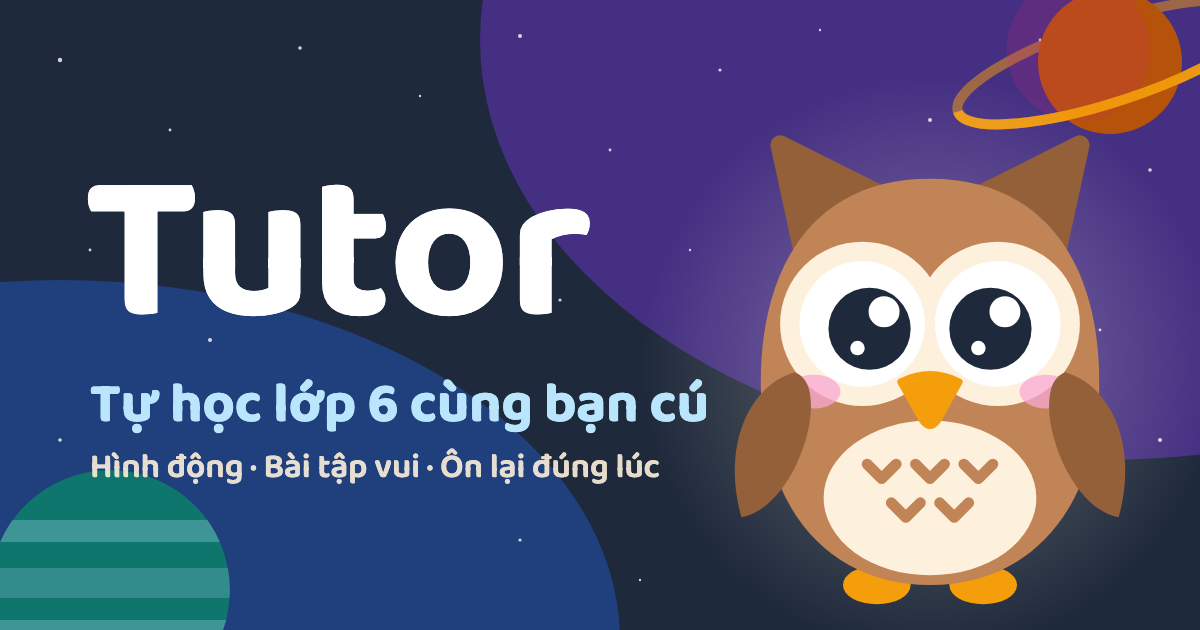
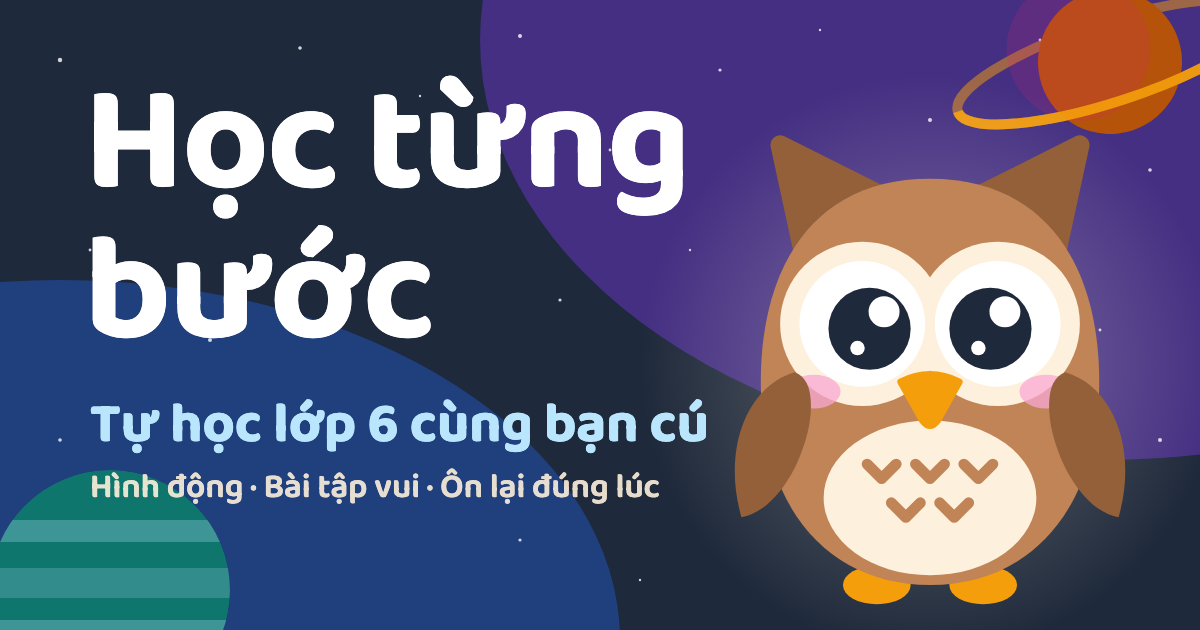
feat(brand): name the app Học từng bước on the Home Screen, tab and share card
APP_NAME and APP_SHORT_NAME in lib/brand.ts feed the manifest, the iOS
title, the title template, the Open Graph site name and the share
image, which is redrawn with the new name.

Changed region(s): [[0.0617, 0.1206, 0.5858, 0.5429], [0.0617, 0.6032, 0.5858, 0.8143]]

diff --git a/scripts/lib/brand-art.ts b/scripts/lib/brand-art.ts
@@ -1,6 +1,7 @@
 import { readFileSync } from "node:fs";
 import path from "node:path";
 import {
+  APP_NAME,
   type AppIcon,
   ICON_BACKGROUND_COLOR,
   OWL_SHARE_OF_ICON,
@@ -62,7 +63,7 @@ export function faviconSvg(owlSvg: string): string {
     FAVICON_SIZE / 2,
     FAVICON_OWL_SHARE * FAVICON_SIZE,
   );
-  return `<svg xmlns="http://www.w3.org/2000/svg" viewBox="0 0 ${FAVICON_SIZE} ${FAVICON_SIZE}"><title>Tutor</title><rect width="${FAVICON_SIZE}" height="${FAVICON_SIZE}" rx="${FAVICON_CORNER}" fill="${ICON_BACKGROUND_COLOR}"/>${owl}</svg>`;
+  return `<svg xmlns="http://www.w3.org/2000/svg" viewBox="0 0 ${FAVICON_SIZE} ${FAVICON_SIZE}"><title>${APP_NAME}</title><rect width="${FAVICON_SIZE}" height="${FAVICON_SIZE}" rx="${FAVICON_CORNER}" fill="${ICON_BACKGROUND_COLOR}"/>${owl}</svg>`;
 }
 
 // How far the owl's corner farthest from its centre sits from the icon's
@@ -146,7 +147,7 @@ export type ShareFont = { family: string; weight: number; dataUrl: string };
 
 // The share card as a page to screenshot at 1200×630: a night sky with
 // nebula glows and stars, a ringed planet and a banded moon, the owl on a
-// glow to the right, "Tutor" and the line under it to the left.
+// glow to the right, the app's name and the line under it to the left.
 export function shareImageHtml(owlSvg: string, fonts: ShareFont[]): string {
   const c = SHARE_COLORS;
   const { width, height } = SHARE_IMAGE;
@@ -187,11 +188,11 @@ ${owl}
 </svg>`;
   return `<!doctype html><html lang="vi"><head><meta charset="utf-8"><style>${faces}
 html,body{margin:0;width:${width}px;height:${height}px;overflow:hidden;background:${c.night}}
-.title{position:absolute;left:84px;top:150px;margin:0;font:700 210px/1 "Baloo 2",sans-serif;color:${c.white};letter-spacing:-2px}
-.line{position:absolute;left:90px;top:372px;margin:0;font:700 56px/1.2 "Baloo 2",sans-serif;color:${c.sky}}
-.hint{position:absolute;left:90px;top:446px;margin:0;font:600 34px/1.3 "Baloo 2",sans-serif;color:${c.cream};opacity:.9}
+.title{position:absolute;left:84px;top:70px;width:640px;margin:0;font:700 150px/1 "Baloo 2",sans-serif;color:${c.white};letter-spacing:-2px}
+.line{position:absolute;left:90px;top:392px;margin:0;font:700 56px/1.2 "Baloo 2",sans-serif;color:${c.sky}}
+.hint{position:absolute;left:90px;top:466px;margin:0;font:600 34px/1.3 "Baloo 2",sans-serif;color:${c.cream};opacity:.9}
 </style></head><body>${art}
-<h1 class="title">Tutor</h1>
+<h1 class="title">${APP_NAME}</h1>
 <p class="line">Tự học lớp 6 cùng bạn cú</p>
 <p class="hint">Hình động · Bài tập vui · Ôn lại đúng lúc</p>
 </body></html>`;

diff --git a/src/lib/brand.ts b/src/lib/brand.ts
@@ -4,7 +4,13 @@
 // one place; the family-code gate lets exactly `BRAND_PUBLIC_PATHS` through
 // without the cookie; `scripts/brand-images.ts` draws the image files.
 
-export const APP_NAME = "Tutor";
+// What the child sees: the tab, the Home Screen label, the share card.
+export const APP_NAME = "Học từng bước";
+// The label under the Home Screen icon (manifest `short_name`): the full name
+// is 13 characters and fits under an iOS icon in one line, so it is not cut.
+export const APP_SHORT_NAME = APP_NAME;
+// A page that sets its own title gets the app's name after it.
+export const TITLE_TEMPLATE = `%s | ${APP_NAME}`;
 export const APP_DESCRIPTION = "Ứng dụng tự học cho học sinh lớp 6";
 
 // Public address of the production app: the base of every absolute URL in
@@ -56,7 +62,7 @@ export const SHARE_IMAGE = {
   path: "/brand/share.png",
   width: 1200,
   height: 630,
-  alt: "Bạn cú của Tutor giữa bầu trời sao, cạnh chữ Tutor: tự học lớp 6",
+  alt: `Bạn cú giữa bầu trời sao, cạnh chữ ${APP_NAME}: tự học lớp 6`,
 } as const;
 // The image as the metadata API takes it.
 export const SHARE_IMAGE_TAG = {
@@ -65,7 +71,7 @@ export const SHARE_IMAGE_TAG = {
   height: SHARE_IMAGE.height,
   alt: SHARE_IMAGE.alt,
 } as const;
-export const SHARE_TITLE = "Tutor: tự học lớp 6 cùng bạn cú";
+export const SHARE_TITLE = `${APP_NAME}: tự học lớp 6 cùng bạn cú`;
 export const SHARE_DESCRIPTION =
   "Học bài cùng bạn cú: hình động dễ hiểu, bài tập vui và ôn lại đúng lúc để nhớ lâu.";
 

diff --git a/tests/lib/brand.test.ts b/tests/lib/brand.test.ts
@@ -5,6 +5,7 @@ import manifest from "@/app/manifest";
 import {
   APP_ICONS,
   APP_NAME,
+  APP_SHORT_NAME,
   APPLE_TOUCH_ICON,
   BACKGROUND_COLOR,
   BRAND_PUBLIC_PATHS,
@@ -13,8 +14,10 @@ import {
   ICON_BACKGROUND_COLOR,
   MANIFEST_PATH,
   SHARE_IMAGE,
+  SHARE_TITLE,
   SITE_URL,
   THEME_COLOR,
+  TITLE_TEMPLATE,
 } from "@/lib/brand";
 import {
   faviconSvg,
@@ -54,8 +57,19 @@ describe("the web app manifest", () => {
       display: "standalone",
       lang: "vi",
       name: APP_NAME,
-      short_name: APP_NAME,
+      short_name: APP_SHORT_NAME,
     });
+  });
+
+  it("is called Học từng bước on the Home Screen and everywhere else", () => {
+    expect(m.name).toBe("Học từng bước");
+    expect(m.short_name).toBe("Học từng bước");
+    // An iOS icon label holds about this many characters before it is cut.
+    expect(APP_SHORT_NAME.length).toBeLessThanOrEqual(14);
+    expect(TITLE_TEMPLATE).toBe("%s | Học từng bước");
+    expect(SHARE_TITLE).toBe("Học từng bước: tự học lớp 6 cùng bạn cú");
+    expect(SHARE_IMAGE.alt).toContain(APP_NAME);
+    expect(JSON.stringify(m)).not.toContain("Tutor");
   });
 
   it("takes its colours from the design tokens", () => {
@@ -133,7 +147,7 @@ describe("the share image", () => {
 
   it("names the app and says what it is, in Vietnamese", () => {
     const html = shareImageHtml(readOwlSvg(root), []);
-    expect(html).toContain(">Tutor<");
+    expect(html).toContain(`>${APP_NAME}<`);
     expect(html).toContain("Tự học lớp 6 cùng bạn cú");
   });
 });

diff --git a/e2e/unlock.spec.ts b/e2e/unlock.spec.ts
@@ -1,5 +1,5 @@
 import { expect, type Page } from "@playwright/test";
-import { SITE_URL } from "../src/lib/brand";
+import { APP_NAME, APP_SHORT_NAME, SITE_URL } from "../src/lib/brand";
 import { expectNoHorizontalScroll, expectTouchTargets } from "./layout";
 import { GATE_BASE_URL, GATE_FAMILY_CODE } from "./targets";
 import { test } from "./test";
@@ -94,11 +94,19 @@ test("a link preview crawler without the cookie gets the share card from the unl
   const meta = (name: string) =>
     page.locator(`meta[property="${name}"], meta[name="${name}"]`);
   const production = SITE_URL;
+  await expect(page).toHaveTitle(new RegExp(APP_NAME));
+  await expect(meta("apple-mobile-web-app-title")).toHaveAttribute(
+    "content",
+    APP_SHORT_NAME,
+  );
   await expect(meta("og:type")).toHaveAttribute("content", "website");
   await expect(meta("og:locale")).toHaveAttribute("content", "vi_VN");
-  await expect(meta("og:site_name")).toHaveAttribute("content", "Tutor");
+  await expect(meta("og:site_name")).toHaveAttribute("content", APP_NAME);
   await expect(meta("og:url")).toHaveAttribute("content", production);
-  await expect(meta("og:title")).toHaveAttribute("content", /Tutor/);
+  await expect(meta("og:title")).toHaveAttribute(
+    "content",
+    new RegExp(APP_NAME),
+  );
   await expect(meta("og:description")).toHaveAttribute("content", /bạn cú/);
   await expect(meta("og:image")).toHaveAttribute(
     "content",

diff --git a/src/app/layout.tsx b/src/app/layout.tsx
@@ -3,6 +3,7 @@ import { Baloo_2, Be_Vietnam_Pro } from "next/font/google";
 import {
   APP_DESCRIPTION,
   APP_NAME,
+  APP_SHORT_NAME,
   APPLE_TOUCH_ICON,
   FAVICON_SVG_PATH,
   SHARE_DESCRIPTION,
@@ -10,6 +11,7 @@ import {
   SHARE_TITLE,
   SITE_URL,
   THEME_COLOR,
+  TITLE_TEMPLATE,
 } from "@/lib/brand";
 import "./globals.css";
 
@@ -32,7 +34,7 @@ const bodyFont = Be_Vietnam_Pro({
 // that page's tags are the ones that make the link preview.
 export const metadata: Metadata = {
   metadataBase: new URL(SITE_URL),
-  title: APP_NAME,
+  title: { default: APP_NAME, template: TITLE_TEMPLATE },
   description: APP_DESCRIPTION,
   // `src/app/favicon.ico` is the tab icon for browsers that ask for it; this
   // is the sharper one for those that take an SVG.
@@ -45,7 +47,11 @@ export const metadata: Metadata = {
     },
   },
   // iOS launches it standalone with the light status bar the page needs.
-  appleWebApp: { capable: true, title: APP_NAME, statusBarStyle: "default" },
+  appleWebApp: {
+    capable: true,
+    title: APP_SHORT_NAME,
+    statusBarStyle: "default",
+  },
   // Next writes only the unprefixed `mobile-web-app-capable`; iOS Safari
   // before 17 reads the prefixed tag.
   other: { "apple-mobile-web-app-capable": "yes" },

diff --git a/src/app/manifest.ts b/src/app/manifest.ts
@@ -3,6 +3,7 @@ import {
   APP_DESCRIPTION,
   APP_ICONS,
   APP_NAME,
+  APP_SHORT_NAME,
   BACKGROUND_COLOR,
   THEME_COLOR,
 } from "@/lib/brand";
@@ -13,7 +14,7 @@ export default function manifest(): MetadataRoute.Manifest {
   return {
     id: "/",
     name: APP_NAME,
-    short_name: APP_NAME,
+    short_name: APP_SHORT_NAME,
     description: APP_DESCRIPTION,
     lang: "vi",
     start_url: "/",

diff --git a/docs/spec.md b/docs/spec.md
@@ -400,9 +400,9 @@ Code dùng một interface `BlobStore { get(key) → { body, etag } | null; put(
 - **Secrets** chỉ ở biến môi trường Vercel / `.env.local` (gitignore): `SESSION_SECRET`, `R2_ACCOUNT_ID`, `R2_ACCESS_KEY_ID`, `R2_SECRET_ACCESS_KEY`, `R2_PRIVATE_BUCKET`, `R2_MEDIA_BUCKET`, `GEMINI_API_KEY`. Public: `NEXT_PUBLIC_MEDIA_BASE_URL`. Token R2 của app chỉ có quyền trên 2 bucket; admin CLI dùng token riêng.
 
 ### 5.9 Offline và PWA
-- **Cài lên Màn hình chính (đã có; chưa có offline):** `src/app/manifest.ts` trả manifest (`display: standalone`, `start_url` và `scope` là `/`, tên và tên ngắn "Tutor", `lang: vi`, màu nền và màu theme theo token `--background`). Icon cú mèo 192, 512 và maskable 512, `apple-touch-icon` 180 và favicon (`src/app/favicon.ico` cùng `public/brand/favicon.svg`) vẽ từ `assets/brand/owl.svg` bằng `pnpm brand:images`, ra `public/brand/`. Thẻ iOS (`apple-mobile-web-app-capable`, `apple-mobile-web-app-status-bar-style: default`, `theme-color`) nằm ở layout gốc. Chưa có service worker và chưa cache gì: mở từ Màn hình chính vẫn cần mạng như mở trong Safari. Mọi hằng số (tên, màu, đường dẫn icon, `SITE_URL`) ở `src/lib/brand.ts`, nơi duy nhất; test so màu với `globals.css`.
+- **Cài lên Màn hình chính (đã có; chưa có offline):** `src/app/manifest.ts` trả manifest (`display: standalone`, `start_url` và `scope` là `/`, tên và tên ngắn "Học từng bước" (`APP_NAME`, `APP_SHORT_NAME`; tên này cũng là `<title>` và mẫu tiêu đề `%s | Học từng bước`, `apple-mobile-web-app-title`, `og:site_name`), `lang: vi`, màu nền và màu theme theo token `--background`). Icon cú mèo 192, 512 và maskable 512, `apple-touch-icon` 180 và favicon (`src/app/favicon.ico` cùng `public/brand/favicon.svg`) vẽ từ `assets/brand/owl.svg` bằng `pnpm brand:images`, ra `public/brand/`. Thẻ iOS (`apple-mobile-web-app-capable`, `apple-mobile-web-app-status-bar-style: default`, `theme-color`) nằm ở layout gốc. Chưa có service worker và chưa cache gì: mở từ Màn hình chính vẫn cần mạng như mở trong Safari. Mọi hằng số (tên, màu, đường dẫn icon, `SITE_URL`) ở `src/lib/brand.ts`, nơi duy nhất; test so màu với `globals.css`.
 - **Mở từ Màn hình chính trên iOS:** vào `/`; chưa có cookie thì tới `/unlock?next=%2F`, nhập mã gia đình một lần rồi vào app. Cookie và IndexedDB của app ở Màn hình chính tách riêng khỏi Safari: hồ sơ và tiến độ tạo trong Safari không có trong app đã thêm, nên cài trước rồi mới tạo hồ sơ từ app đó (đến khi có đồng bộ).
-- **Xem trước link:** layout gốc khai Open Graph và Twitter card (`og:type website`, `og:locale vi_VN`, tiêu đề và mô tả tiếng Việt, `og:url` và `og:image` là địa chỉ tuyệt đối theo `metadataBase = SITE_URL`). Ảnh 1200×630 `public/brand/share.png` vẽ cú mèo cạnh chữ Tutor trên nền vũ trụ. Trình thu thập của Facebook, Messenger, Zalo, Telegram, iMessage không có cookie nên bị cổng chuyển tới `/unlock`; thẻ nằm ở layout gốc nên trang `/unlock` có đủ thẻ. `X-Robots-Tag: noindex` giữ nguyên, xem trước vẫn chạy.
+- **Xem trước link:** layout gốc khai Open Graph và Twitter card (`og:type website`, `og:locale vi_VN`, tiêu đề và mô tả tiếng Việt, `og:url` và `og:image` là địa chỉ tuyệt đối theo `metadataBase = SITE_URL`). Ảnh 1200×630 `public/brand/share.png` vẽ cú mèo cạnh tên "Học từng bước" trên nền vũ trụ. Trình thu thập của Facebook, Messenger, Zalo, Telegram, iMessage không có cookie nên bị cổng chuyển tới `/unlock`; thẻ nằm ở layout gốc nên trang `/unlock` có đủ thẻ. `X-Robots-Tag: noindex` giữ nguyên, xem trước vẫn chạy.
 - **Offline (làm sau, cùng đồng bộ):** service worker (`@serwist/turbopack`) khi cài: precache app shell, **toàn bộ lesson JSON**, mọi visual chunk trong registry, font (Be Vietnam Pro, Baloo 2, KaTeX), TopoJSON bản đồ.
 - Trang bài/phần/ôn render phía client từ lesson JSON đã cache (không phụ thuộc cache RSC payload).
 - Không cache response 3xx và response `/api/*` trừ `GET /api/content` (network-first, fallback cache).
